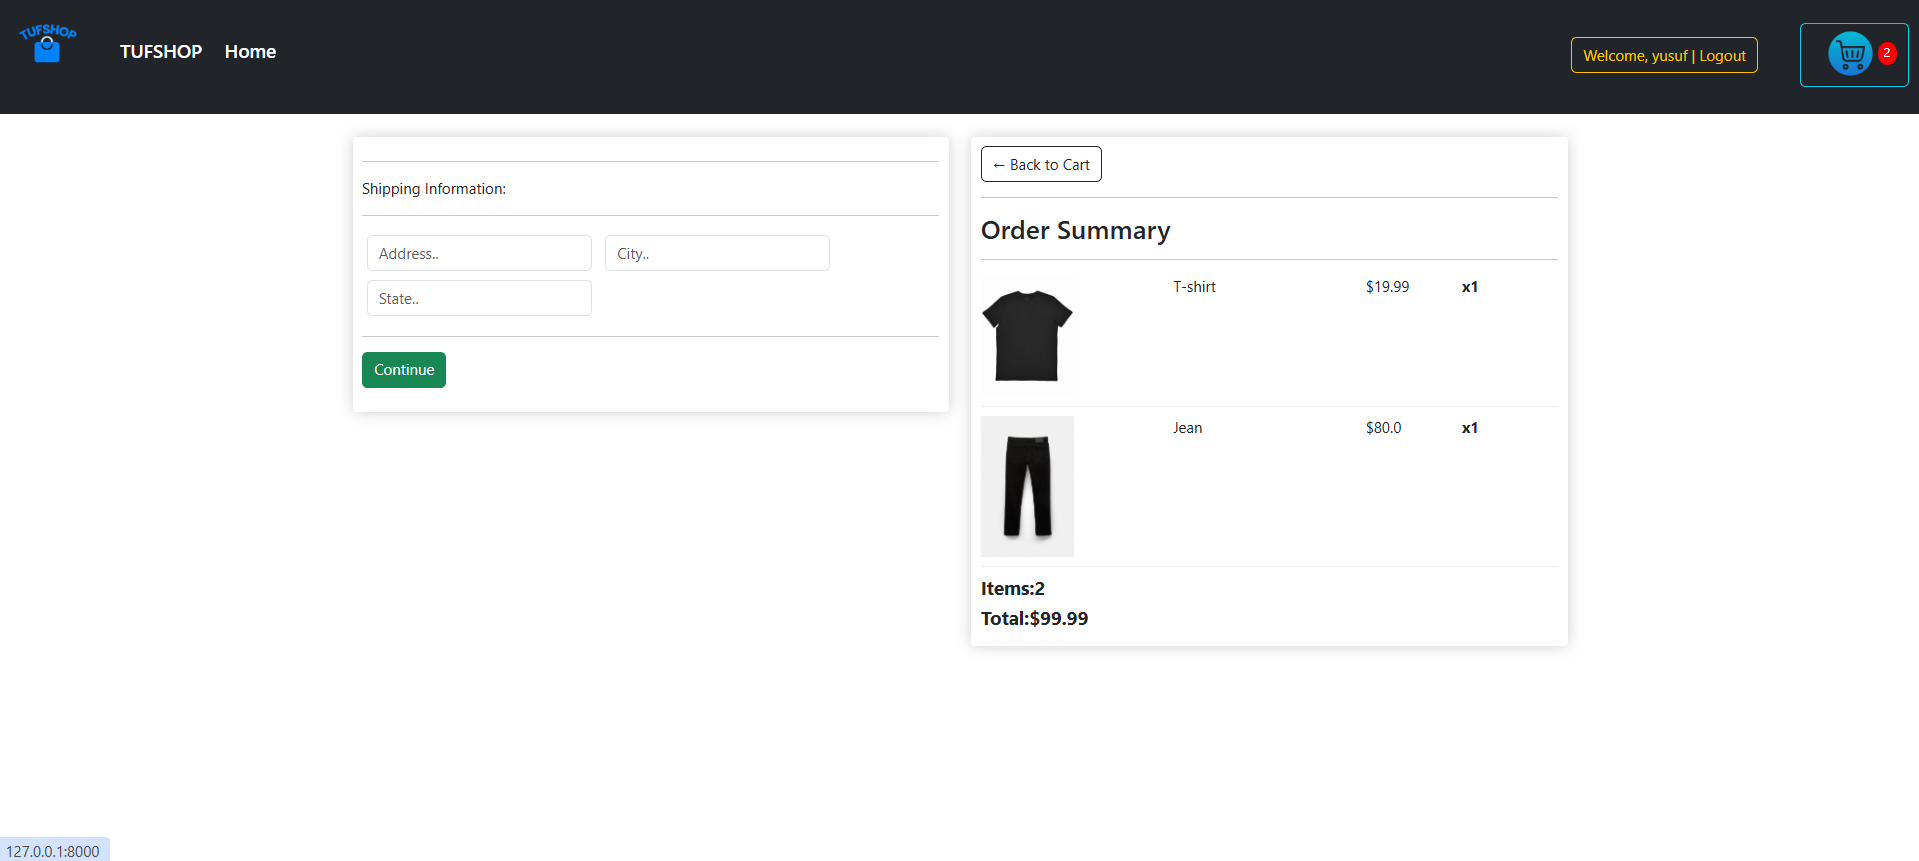
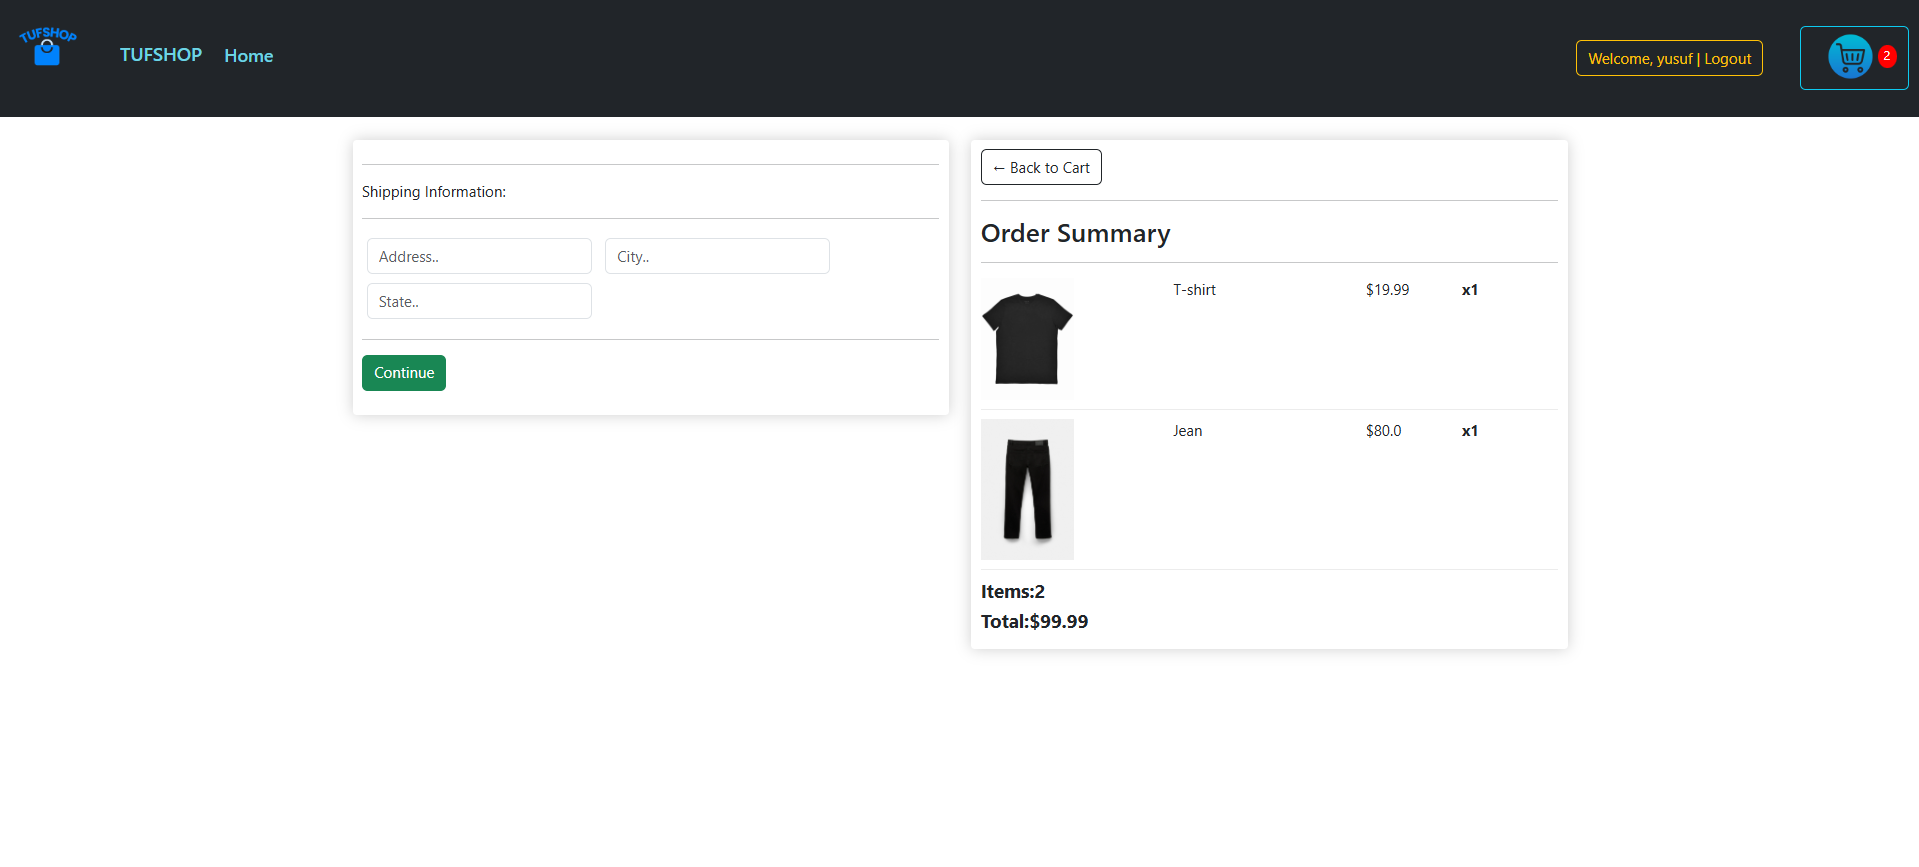
Updated E-shop

diff --git a/TUFshop/tufshopapp/templates/tufshopapp/base.html b/TUFshop/tufshopapp/templates/tufshopapp/base.html
@@ -36,7 +36,7 @@
                 <img src="{% static 'images/TUFSHOP.png' %}" width="100" height="100" alt="TUFSHOP">
             </a>
             <div class="container-fluid">
-                <h1><a class="navbar-brand" href="{% url 'home' %}">TUFSHOP</a></h1>
+                <h1><a  style="color: rgb(110, 212, 227);" class="navbar-brand" href="{% url 'home' %}">TUFSHOP</a></h1>
                 <button class="navbar-toggler" type="button" data-bs-toggle="collapse" data-bs-target="#navbarCollapse" aria-controls="navbarCollapse" aria-expanded="false" aria-label="Toggle navigation">
                     <span class="navbar-toggler-icon"></span>
                 </button>
@@ -44,27 +44,29 @@
                     <ul class="navbar-nav me-auto mb-2 mb-md-0">
                         
                         <li class="nav-item">
-                            <h4><a class="nav-link active" style="font-size: 20px;" aria-current="page" href="{% url 'home' %}">Home</a></h4>
+                            <h4><a class="nav-link active" style="font-size: 19px; color: rgb(110, 212, 227); " aria-current="page" href="{% url 'home' %}">Home</a></h4>
                         </li>
                                              
                     </ul>
                     <div class="form-inline my-2 my-lg-0">
                             {% if user.is_authenticated %}
-                                    <a  class="btn btn-outline-warning" href="{% url 'logout' %}">Welcome, {{ user.username }} | Logout</a>
+                                    <a  class="btn btn-outline-warning" href="{% url 'logout' %}">Welcome, {{ user.username }} | Logout</a> &nbsp; &nbsp; &nbsp;
                                 {% else %}
-                                    <a class="btn btn-outline-success" href="{% url 'login' %}">Login</a>
-                                    |
-                                    <a class="btn btn-outline-success"   href="{% url 'register' %}">Sign Up</a>
+                                    <a style="font-size: 18px;" class="btn btn-outline-success" href="{% url 'login' %}">Login</a>
+                                    &nbsp;
+                                    <a style="font-size: 18px;" class="btn btn-outline-success"   href="{% url 'register' %}">Sign Up</a>
                                     
                                 {% endif %}
                     </div>
-                    <li></li><li></li>                  
+                    &nbsp; &nbsp;
+                                   
 	                <div class="form-inline my-2 my-lg-0">
-                        
-	                 	<a href="{% url 'cart' %}"><button class="btn btn-outline-info">
-	                		<img style="width: 50px; height: 50px;" id="cart-icon" src="{% static 'images/cart.png' %}">
-                            <p id="cart-total">{{cartItems}}</p></button>   
-	                	</a>              
+                        {% if user.is_authenticated %}  
+	                 	    <a href="{% url 'cart' %}"><button class="btn btn-outline-info">
+	                	    	<img style="width: 50px; height: 50px;" id="cart-icon" src="{% static 'images/cart.png' %}">
+                                <p id="cart-total">{{cartItems}}</p></button>   
+	                	    </a>
+                        {%endif%}              
 	                </div>                    
                 </div>
             </div>
